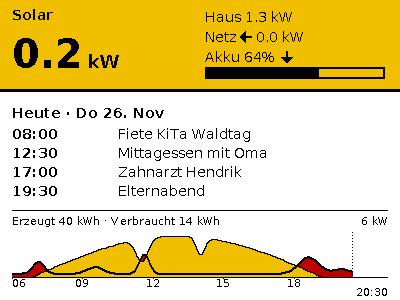
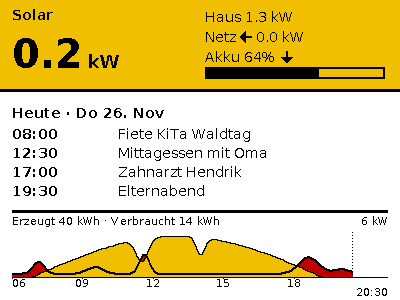
feat: 3 px divider between calendar and chart

Changed region(s): [[0.03, 0.69, 0.96, 0.72]]

diff --git a/test/test_render/test_main.cpp b/test/test_render/test_main.cpp
@@ -173,6 +173,15 @@ void test_render_today_capped_at_4_with_chart() {
     TEST_ASSERT_EQUAL(4, visibleTodayLines(v));  // unchanged without chart
 }
 
+// With a chart the divider is 3 px thick (rows 210-212 with 4 events).
+void test_render_chart_divider_thick() {
+    Canvas c(bufA);
+    renderDay(c, chartDayView(3000, 1000));
+    for (int y = 210; y <= 212; y++) TEST_ASSERT_EQUAL(Color::Black, c.get(200, y));
+    TEST_ASSERT_EQUAL(Color::White, c.get(200, 213));
+    TEST_ASSERT_EQUAL(Color::White, c.get(200, 209));
+}
+
 // Hour labels must end above row 288, where the footer (baseline 296) starts.
 void test_render_hour_labels_clear_of_footer() {
     Canvas c(bufA);
@@ -320,5 +329,6 @@ int main() {
     RUN_TEST(test_render_today_capped_at_4_with_chart);
     RUN_TEST(test_render_chart_grows_with_fewer_events);
     RUN_TEST(test_render_hour_labels_clear_of_footer);
+    RUN_TEST(test_render_chart_divider_thick);
     return UNITY_END();
 }

diff --git a/lib/core/src/render.cpp b/lib/core/src/render.cpp
@@ -213,11 +213,12 @@ void drawCalendar(Canvas& c, const View& v, int top) {
     drawText(c, kMargin, hb, Font::BodyBold, head.c_str(), Color::Black);
     int y = drawToday(c, v, hb + 21, v.chart.present ? kMaxTodayWithChart : kMaxToday);
     int sep = y - 19 + 14;
-    c.hline(kMargin, sep, Canvas::W - 2 * kMargin, Color::Black);
     if (v.chart.present) {
+        c.fillRect(kMargin, sep, Canvas::W - 2 * kMargin, 3, Color::Black);  // thick divider above the chart
         drawChart(c, v.chart, sep);
         return;
     }
+    c.hline(kMargin, sep, Canvas::W - 2 * kMargin, Color::Black);
     drawText(c, kMargin, sep + 21, Font::BodyBold, v.tomorrowLabel.c_str(), Color::Black);
     drawTomorrow(c, v, sep + 39, kCalendarBottom, 15);
 }

diff --git a/docs/architecture.md b/docs/architecture.md
@@ -167,7 +167,7 @@ Battery arrow: `battery_w ≥ 50` "↑", `≤ −50` "↓", otherwise none.
 ## Screens (`lib/core/src/render.h`)
 
 - `renderDay`: yellow solar banner (92 px, 3 px black bottom border): "Solar", Huge kW number, house/grid/battery (arrows drawn as shapes, since the fonts lack "→←↑↓") and a SoC bar. Below (10 px gap): today header, up to 5 event lines (Body, 19 px pitch), a divider with 14 px air above and below, then tomorrow one event per line (Small, 15 px pitch, time column + title) as far as space allows above the footer (last baseline 282); overflow ends with "+N weitere", or "(+N)" appended to the only line when just one fits. Update time bottom-right. With `warnPanelBattery` a 24 px red bar ("Panel-Akku schwach - bitte laden", ASCII hyphen because the font lacks an en dash) sits on top and the banner shrinks to 68 px. Red text: grid import, home battery < 15 %, stale solar "Stand", stale data footer. Missing solar shows "keine Daten" in the banner.
-- **Day screen with a chart** (`View::chart.present`; screens `day_chart_*.png`): "Morgen" is replaced by today's production/consumption chart. Today shows at most 4 lines (more than 4 events: 3 + "+N weitere"). Below the divider (at `sep`):
+- **Day screen with a chart** (`View::chart.present`; screens `day_chart_*.png`): "Morgen" is replaced by today's production/consumption chart. Today shows at most 4 lines (more than 4 events: 3 + "+N weitere"). The divider above the chart is 3 px thick, like the banner's bottom border; without a chart it stays 1 px. Below the divider (at `sep`):
   - **Labels:** `totalsText` on the left and `scaleText` on the right (Small font, baseline sep + 15).
   - **Plot:** x 12–387 (376 columns = 06:00–22:00). The top is at sep + 22 and the bottom row is fixed at y 276, so the plot is 45 px tall with 4 event lines and taller with fewer.
   - **Axis:** black baseline at y 277, 1 px ticks at y 278 and hour labels `06 09 12 15 18` (Small font, baseline 287, so they end above the footer row 288), and a dotted "now" line (06:00–22:00).
